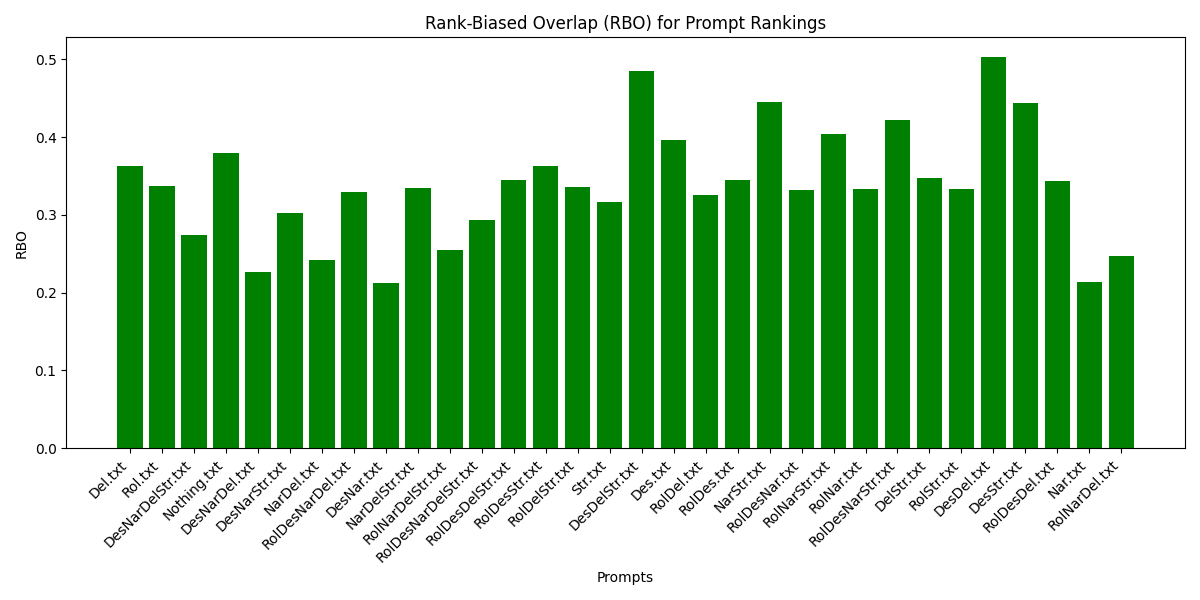
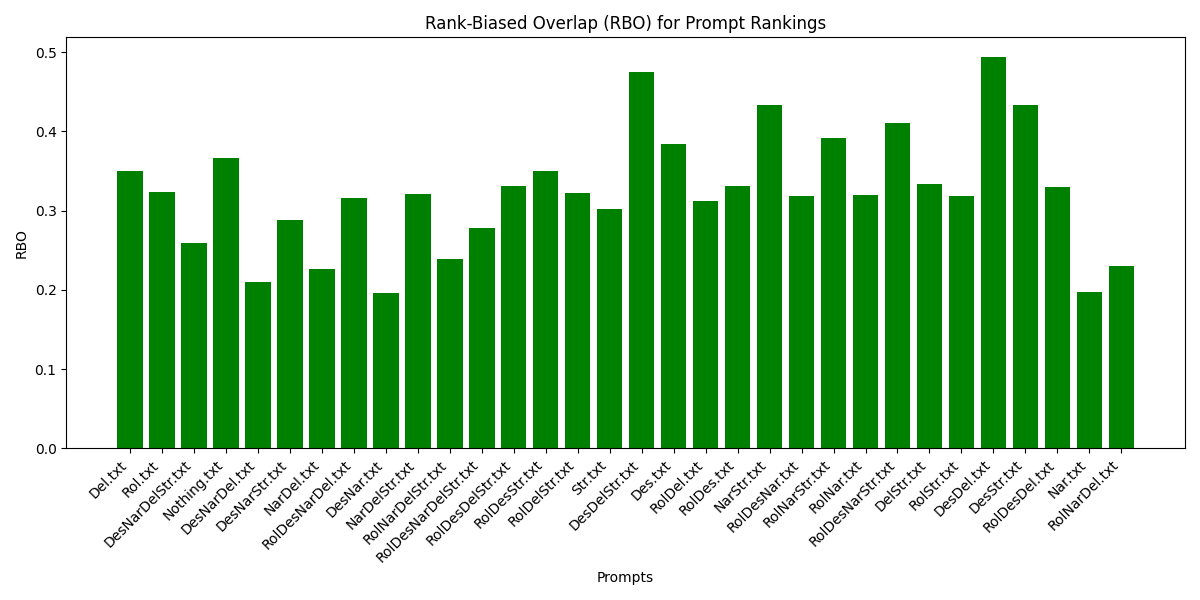
fix depth

diff --git a/plot_rbo.py b/plot_rbo.py
@@ -3,7 +3,7 @@ import pandas as pd
 import sys
 import matplotlib.pyplot as plt
 
-DEPTH = 1000
+DEPTH = 70
 
 # Function to read compatibility scores
 def read_scores(prompt_path, dataset):
